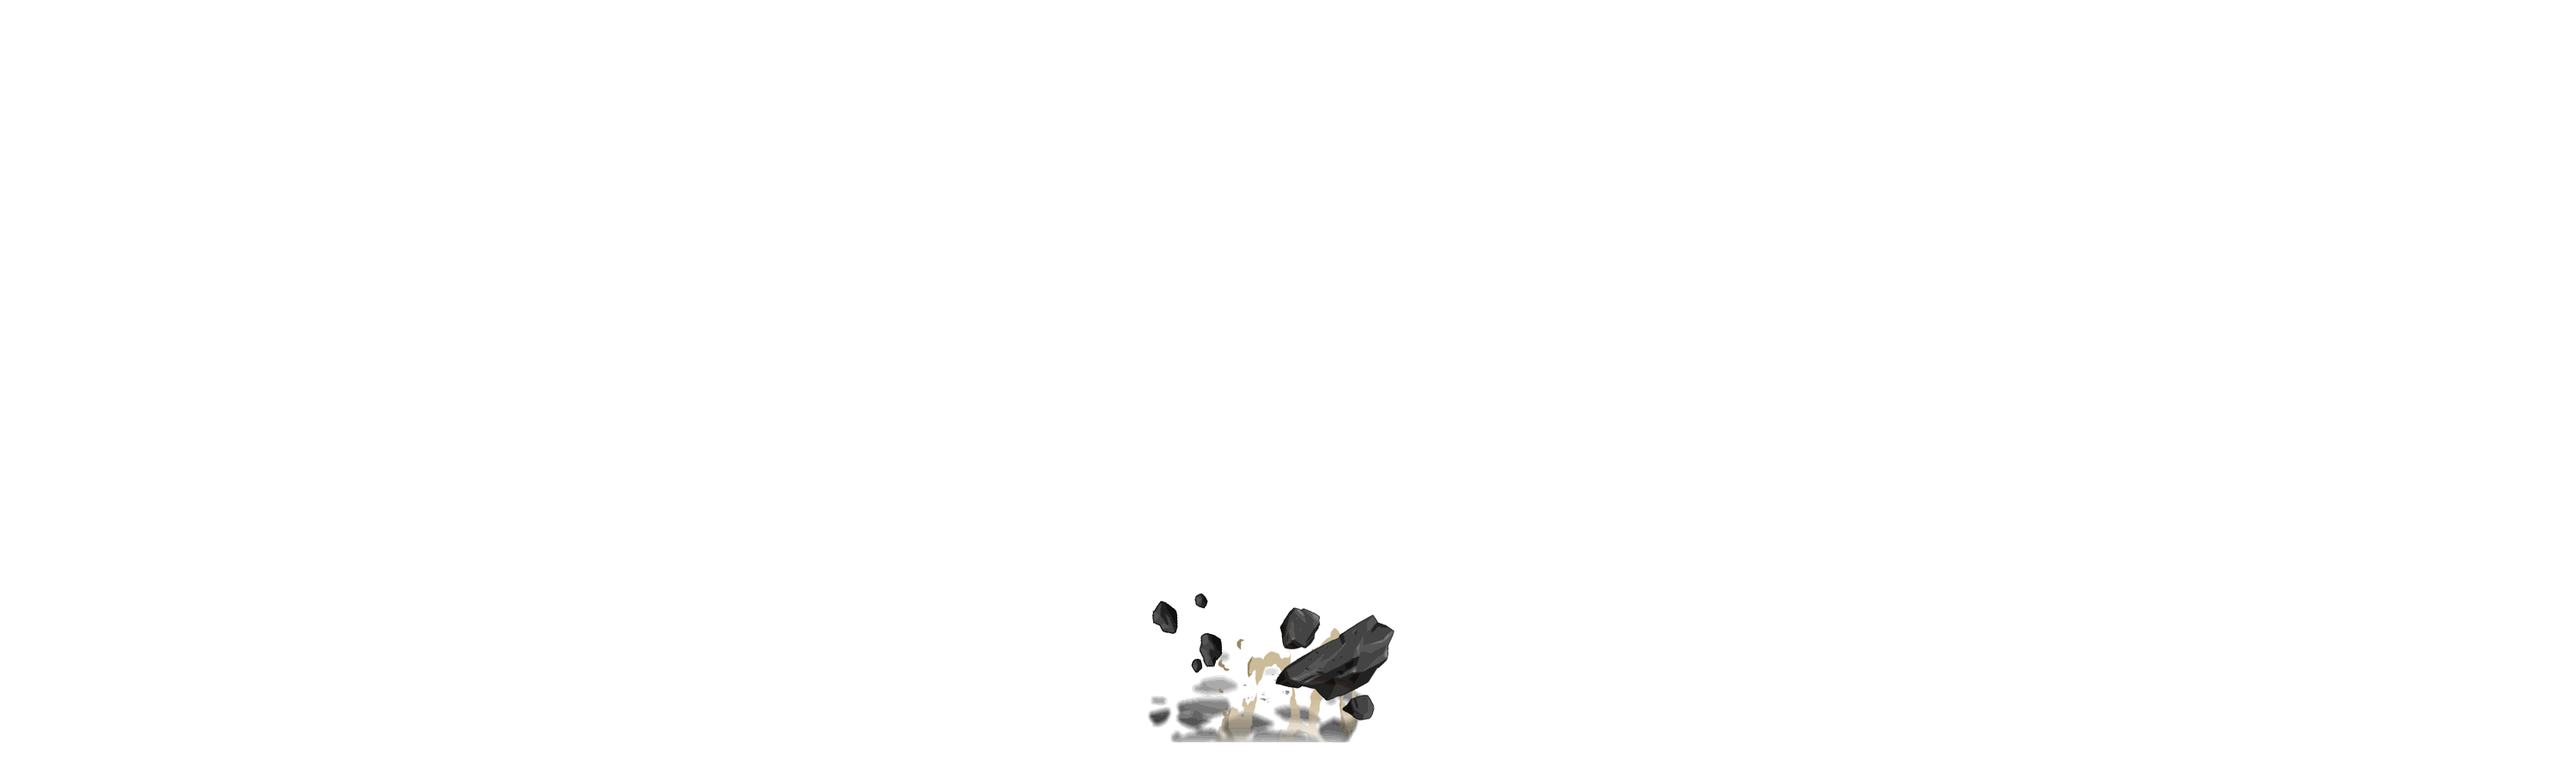
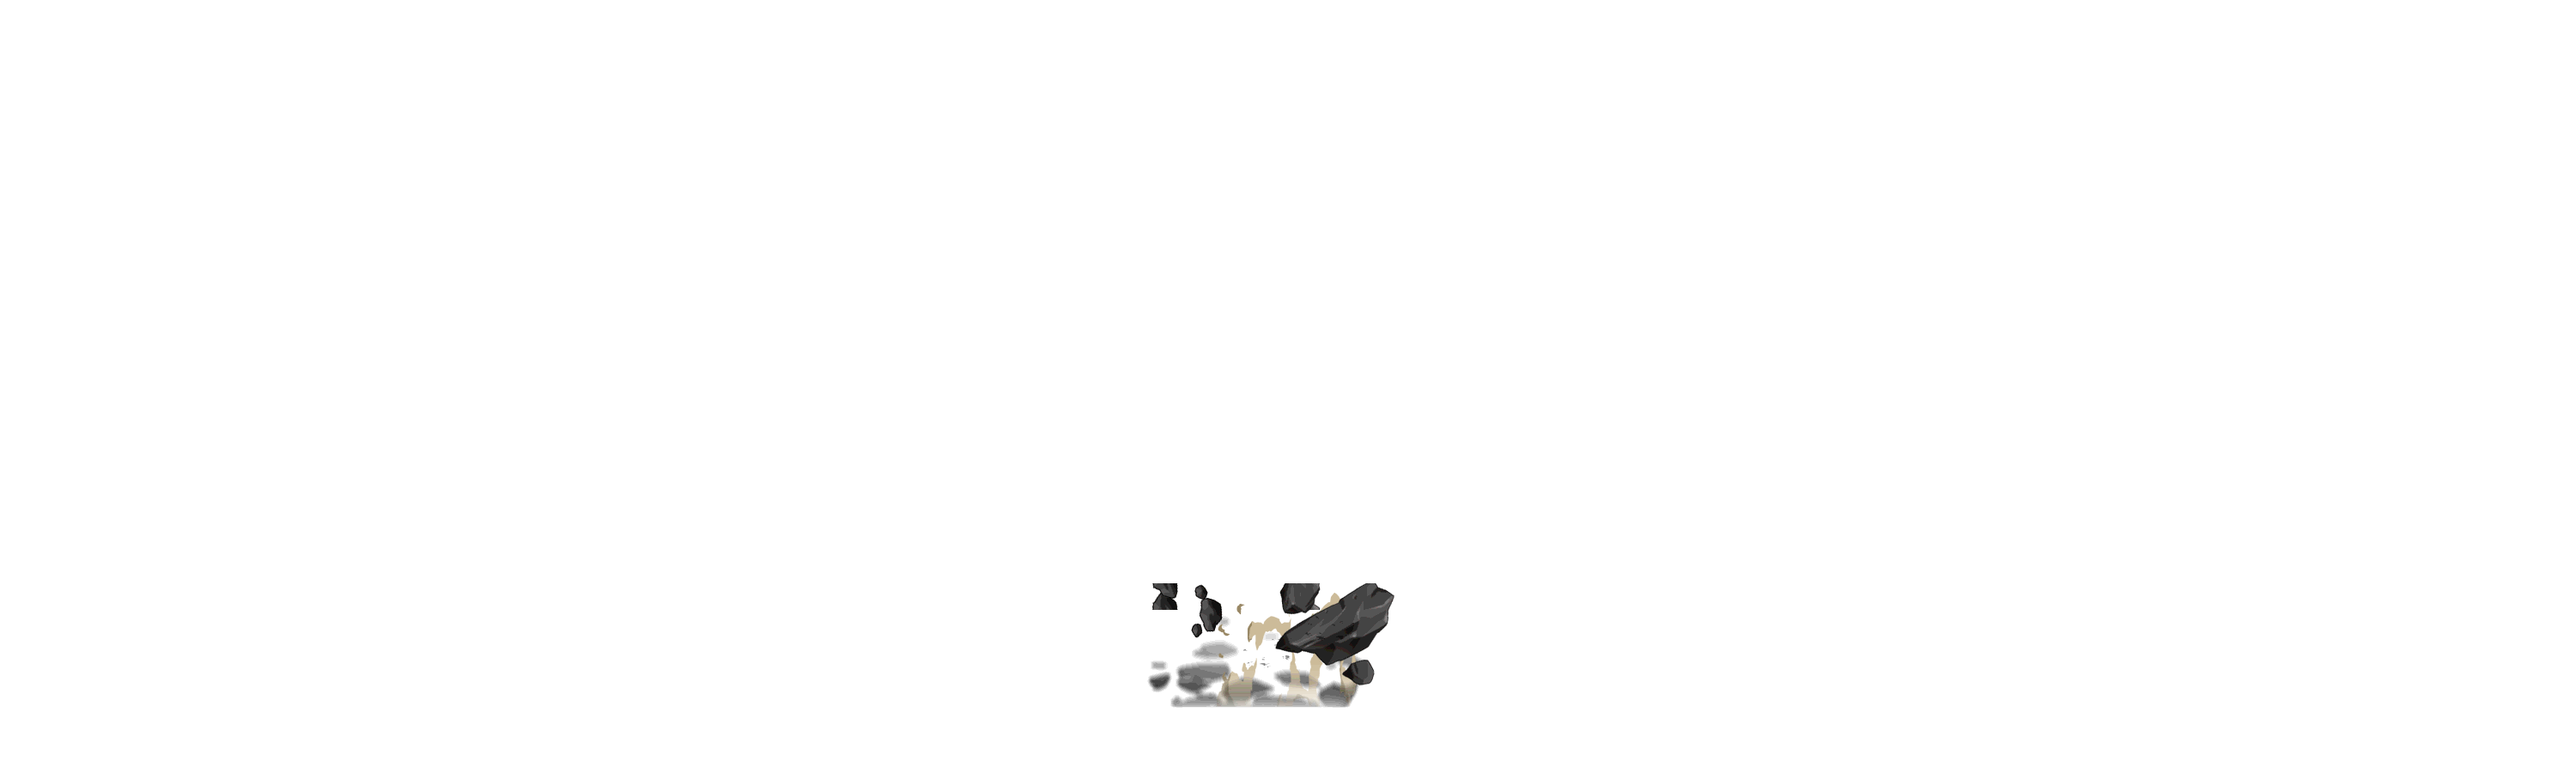
보스 스테이트 업데이트

Changed region(s): [[0.434, 0.7467, 0.558, 0.9644]]

diff --git a/DirectX2D/GameEngineContents/Boss_Vellum.cpp b/DirectX2D/GameEngineContents/Boss_Vellum.cpp
@@ -1,6 +1,9 @@
 #include "PreCompile.h"
 #include "Boss_Vellum.h"
 #include "DamageEffectController.h"
+#include "Player.h"
+#include "StatData.h"
+#include "StatManager.h"
 
 Boss_Vellum::Boss_Vellum()
 {
@@ -13,18 +16,32 @@ Boss_Vellum::~Boss_Vellum()
 void Boss_Vellum::Start()
 {
 	{
+		BossStat = GetLevel()->CreateActor<MonsterStatData>(ActorOrder::MonsterStat);
+	}
+
+	{
+		DamageViewer = GetLevel()->CreateActor<DamageEffectController>(ActorOrder::Manager);
+	}
+
+	{
 		Renderer = CreateComponent<GameEngineSpriteRenderer>();
 		Renderer->SetRenderOrder(RenderOrder::Monster);
 		Renderer->SetPivotType(PivotType::Bottom);
-		Renderer->CreateAnimation("Body_UpDown","Body_UpDown");
-		Renderer->CreateAnimation("Body_ShortUpDown", "Body_ShortUpDown");
-		Renderer->Transform.SetLocalPosition({ 0,-80.0f });
-		Renderer->AutoSpriteSizeOn();
-		//Renderer->AnimationPauseOn();
 
-	}
-	{
-		DamageViewer = GetLevel()->CreateActor<DamageEffectController>(ActorOrder::Manager);
+		Renderer->CreateAnimation("Body_Up", "Body_Up");
+		Renderer->CreateAnimation("Body_End", "Body_End");
+
+		Renderer->CreateAnimation("Body_Move", "Body_Move");
+		Renderer->CreateAnimation("Body_UpDown", "Body_UpDown");
+		Renderer->CreateAnimation("Body_ShortUpDown", "Body_ShortUpDown");
+
+		Renderer->CreateAnimation("Fire_CloseRange", "Fire_CloseRange");
+		Renderer->CreateAnimation("Fire_LongRange", "Fire_LongRange");
+		Renderer->CreateAnimation("Fire_MidRange", "Fire_MidRange");
+		
+
+		Renderer->Transform.SetLocalPosition({ 0,-70.0f });
+		Renderer->AutoSpriteSizeOn();
 	}
 
 	{
@@ -36,32 +53,11 @@ void Boss_Vellum::Start()
 
 	ChangeState(BossState::Body);
 	Transform.SetWorldPosition({ 1695 ,-723 });
-
-	GameEngineInput::AddInputObject(this);
 }
 void Boss_Vellum::Update(float _Delta)
 {
+	ColCheck();
 	StateUpdate(_Delta);
-}
-
-void Boss_Vellum::StateUpdate(float _Delta)
-{
-	switch (CurState)
-	{
-	case BossState::Body:
-		BodyUpdate(_Delta);
-		break;
-	case BossState::Fire:
-		break;
-	case BossState::Dive:
-		break;
-	case BossState::Poison:
-		break;
-	case BossState::Ult:
-		break;
-	default:
-		break;
-	}
 }
 
 void Boss_Vellum::ChangeState(BossState _State)
@@ -74,6 +70,29 @@ void Boss_Vellum::ChangeState(BossState _State)
 		BodyStart();
 		break;
 	case BossState::Fire:
+		FireStart();
+		break;
+	case BossState::Dive:
+		break;
+	case BossState::Poison:
+		break;
+	case BossState::Ult:
+		break;
+	default:
+		break;
+	}
+
+}
+
+void Boss_Vellum::StateUpdate(float _Delta)
+{
+	switch (CurState)
+	{
+	case BossState::Body:
+		BodyUpdate(_Delta);
+		break;
+	case BossState::Fire:
+		FireUpdate(_Delta);
 		break;
 	case BossState::Dive:
 		break;
@@ -86,19 +105,81 @@ void Boss_Vellum::ChangeState(BossState _State)
 	}
 }
 
+// Move
 void Boss_Vellum::BodyStart()
 {
+	Renderer->ChangeAnimation("Body_Move");
 }
-
 void Boss_Vellum::BodyUpdate(float _Delta)
 {
+	if (Renderer->IsCurAnimation("Body_Move"))
+	{
+		float4 dir = Player::MainPlayer->Transform.GetWorldPosition() - Transform.GetWorldPosition();
+		dir.Normalize();
 
-	Renderer->ChangeAnimation("Body_ShortUpDown");
+		Transform.AddWorldPosition({ dir.X * Speed * _Delta,0 });
+	}
+
+	if (Renderer->IsCurAnimationEnd())
+	{
+		BodyEnd();
+	}
 }
 
 void Boss_Vellum::BodyEnd()
 {
+	if (Renderer->IsCurAnimation("Body_Move"))
+	{
+		Renderer->ChangeAnimation("Body_UpDown");
+	}
+	else if (Renderer->IsCurAnimation("Body_UpDown"))
+	{
+		Renderer->ChangeAnimation("Body_ShortUpDown");
+	}
+	else if (Renderer->IsCurAnimation("Body_ShortUpDown"))
+	{
+		ChangeState(BossState::Fire);
+	}
 }
+
+//Fire
+void Boss_Vellum::FireStart()
+{
+	Renderer->ChangeAnimation("Body_Up");
+}
+
+void Boss_Vellum::FireUpdate(float _Delta)
+{
+	if (Renderer->IsCurAnimationEnd())
+	{
+		FireEnd();
+	}
+}
+
+void Boss_Vellum::FireEnd()
+{
+	if (Renderer->IsCurAnimation("Body_Up"))
+	{
+		Renderer->ChangeAnimation("Fire_CloseRange");
+	}
+	else if (Renderer->IsCurAnimation("Fire_CloseRange"))
+	{
+		Renderer->ChangeAnimation("Fire_MidRange");
+	}
+	else if (Renderer->IsCurAnimation("Fire_MidRange"))
+	{
+		Renderer->ChangeAnimation("Fire_LongRange");
+	}
+	else if (Renderer->IsCurAnimation("Fire_LongRange"))
+	{
+		Renderer->ChangeAnimation("Body_End");
+	}
+	else if (Renderer->IsCurAnimation("Body_End"))
+	{
+		ChangeState(BossState::Body);
+	}
+}
+
 
 void Boss_Vellum::ColCheck()
 {
@@ -106,13 +187,11 @@ void Boss_Vellum::ColCheck()
 
 	Event.Enter = [&](GameEngineCollision*, GameEngineCollision* Col2)
 		{
-			Col2->GetActor()->GetDynamic_Cast_This<Player>()
+			Col2->GetParentObject()->Off();
+			float Dmg = StatManager::Inst->GetDamage(Col2);
+			DamageViewer->StartEffect(Transform.GetWorldPosition(), Dmg);
+			StatManager::Inst->ChangeHp(BossStat.get(), -Dmg);
+			
 		};
-	Event.Stay = [](GameEngineCollision*, GameEngineCollision* Col2)
-		{
-		};
-	Event.Exit = [](GameEngineCollision*, GameEngineCollision* Col2)
-		{
-		};
-	Col->CollisionEvent(CollisionOrder::Player, Event);
+	Col->CollisionEvent(CollisionOrder::PlayerWeapon, Event);
 }

diff --git a/DirectX2D/GameEngineContents/MonsterBase.cpp b/DirectX2D/GameEngineContents/MonsterBase.cpp
@@ -40,7 +40,7 @@ void MonsterBase::Start()
 		Renderer = CreateComponent<GameEngineSpriteRenderer>();
 		Renderer->SetRenderOrder(RenderOrder::Monster);
 		Renderer->SetPivotType(PivotType::Bottom);
-		HitDmgEffController = GetLevel()->CreateActor<DamageEffectController>();
+		DamageViewer = GetLevel()->CreateActor<DamageEffectController>();
 	}
 
 	{
@@ -81,8 +81,8 @@ void MonsterBase::Update(float _Delta)
 
 void MonsterBase::Release()
 {
-	HitDmgEffController->Death();
-	HitDmgEffController = nullptr;
+	DamageViewer->Death();
+	DamageViewer = nullptr;
     MonsterStat->Death();
 	MonsterStat = nullptr;
 }
@@ -170,22 +170,15 @@ void MonsterBase::ColCheck()
 		{
 			Col2->GetParentObject()->Off();
 			float Dmg = StatManager::Inst->GetDamage(Col2);
-			HitDmgEffController->StartEffect(Transform.GetWorldPosition() + float4(0, ImageSize.Y * 3 / 4), Dmg);
+			DamageViewer->StartEffect(Transform.GetWorldPosition() + float4(0, ImageSize.Y * 3 / 4), Dmg);
 
 			if (CurState != MonsterState::DIE)
 			{
 				StatManager::Inst->ChangeHp(MonsterStat.get(), -Dmg);
 				ChangeState(MonsterState::HIT);
 			}
-			
 		};
-	Event.Stay = [](GameEngineCollision*, GameEngineCollision* Col2)
-		{
-		};
-	Event.Exit = [](GameEngineCollision*, GameEngineCollision* Col2)
-		{
 
-		};
 	Col->CollisionEvent(EnemyColOrder, Event);
 }
 

diff --git a/DirectX2D/GameEngineContents/Boss_Vellum.h b/DirectX2D/GameEngineContents/Boss_Vellum.h
@@ -37,31 +37,36 @@ protected:
 	//Body
 
 	void FireStart();
-	void FireUpdate();
+	void FireUpdate(float _Delta);
 	void FireEnd();
 	//Fire
 
 	void PoisonStart();
-	void PoisonUpdate();
+	void PoisonUpdate(float _Delta);
 	void PoisonEnd();
 	//Poison
 
 	void DiveStart();
-	void DiveUpdate();
+	void DiveUpdate(float _Delta);
 	void DiveEnd();
 	//Dive
 
 	void UltStart();
-	void UltUpdate();
+	void UltUpdate(float _Delta);
 	void UltEnd();
 	//Ult
 
 	void ColCheck();
 
-	
+	float Speed = 150.0f;
 	BossState CurState;
+	std::shared_ptr<class MonsterStatData> BossStat;
 	std::shared_ptr<class GameEngineSpriteRenderer> Renderer;
-	std::shared_ptr<class GameEngineCollision> Col;
+
+	std::shared_ptr<class GameEngineCollision> BodyCol;
+	std::shared_ptr<class GameEngineCollision> FireCol;
+	std::vector<std::shared_ptr<class GameEngineCollision>> PoisonDownCol;
+	std::vector<std::shared_ptr<class GameEngineCollision>> PoisonAreaCol;
 	std::shared_ptr<class DamageEffectController> DamageViewer;
 };
 

diff --git a/DirectX2D/GameEngineContents/MonsterBase.h b/DirectX2D/GameEngineContents/MonsterBase.h
@@ -50,7 +50,7 @@ protected:
 	int dir = 0;
 	float4 ImageSize;
 	CollisionOrder EnemyColOrder = CollisionOrder::PlayerWeapon;
-	std::shared_ptr<class DamageEffectController> HitDmgEffController;
+	std::shared_ptr<class DamageEffectController> DamageViewer;
 	std::shared_ptr<class GameEngineSpriteRenderer> Renderer;
 	std::shared_ptr<class GameEngineCollision> Col;
 	std::shared_ptr<class GameEngineCollision> TrackingCol;

diff --git a/DirectX2D/GameEngineContents/StatData.h b/DirectX2D/GameEngineContents/StatData.h
@@ -17,7 +17,7 @@ public:
 	MonsterStatData& operator=(MonsterStatData&& _Other) noexcept = delete;
 
 private:
-	float CurHp = 100.0f;
+	float CurHp = 10000.0f;
 	float MaxHp = 100.0f;
 
 	float DefRate = 50;
